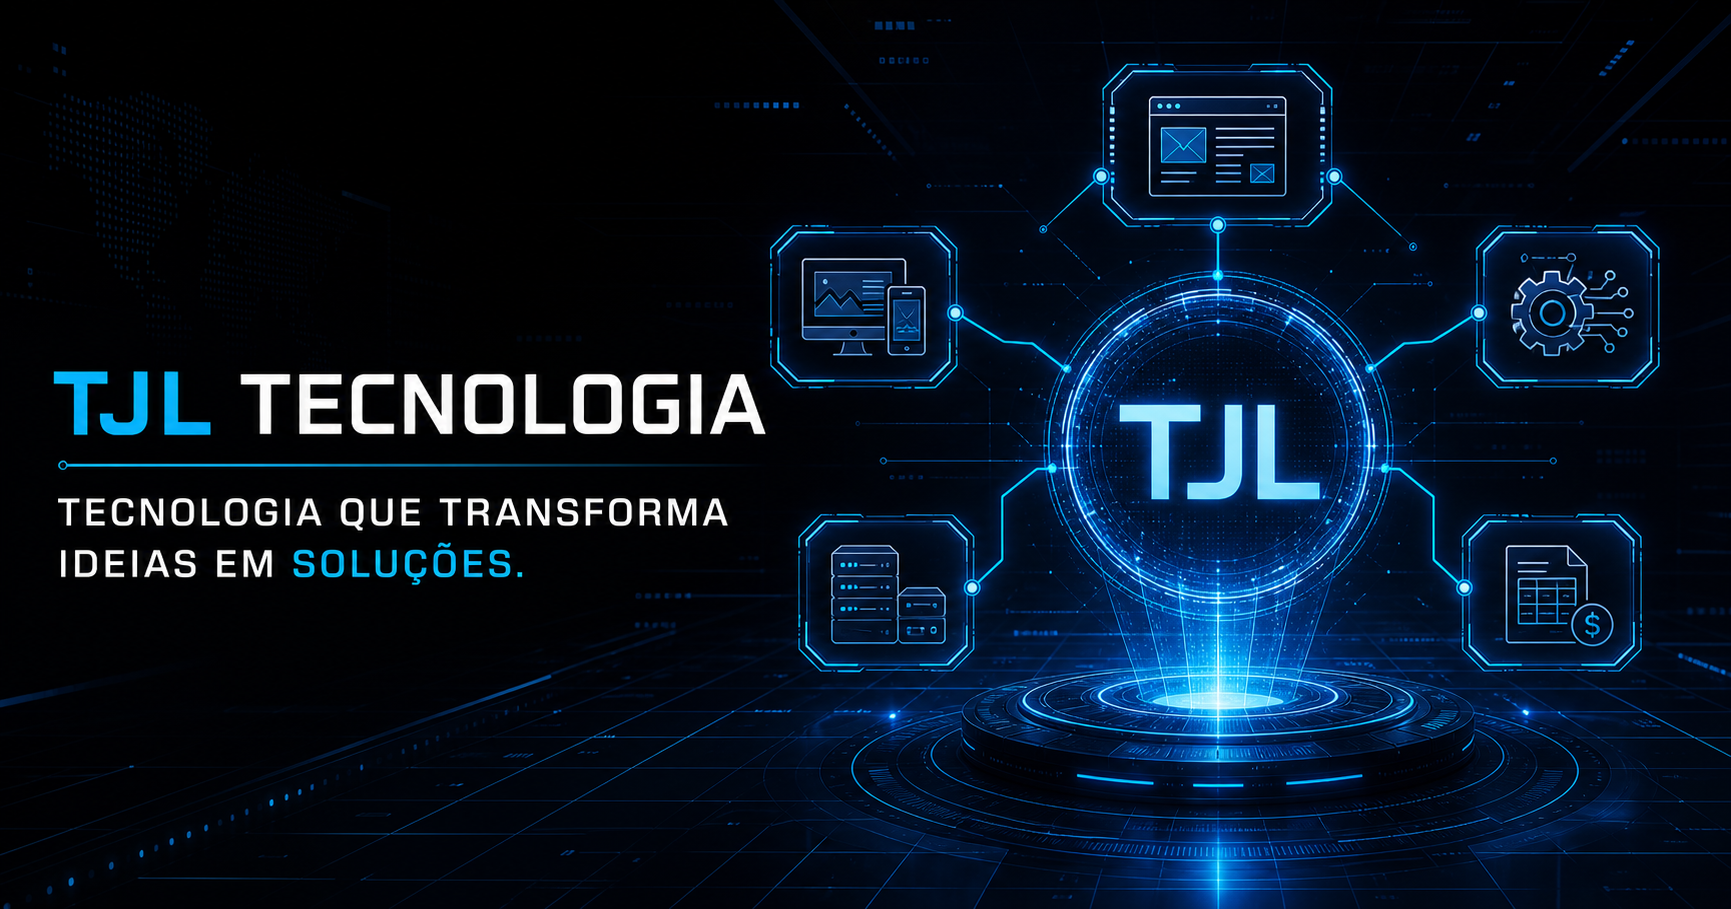
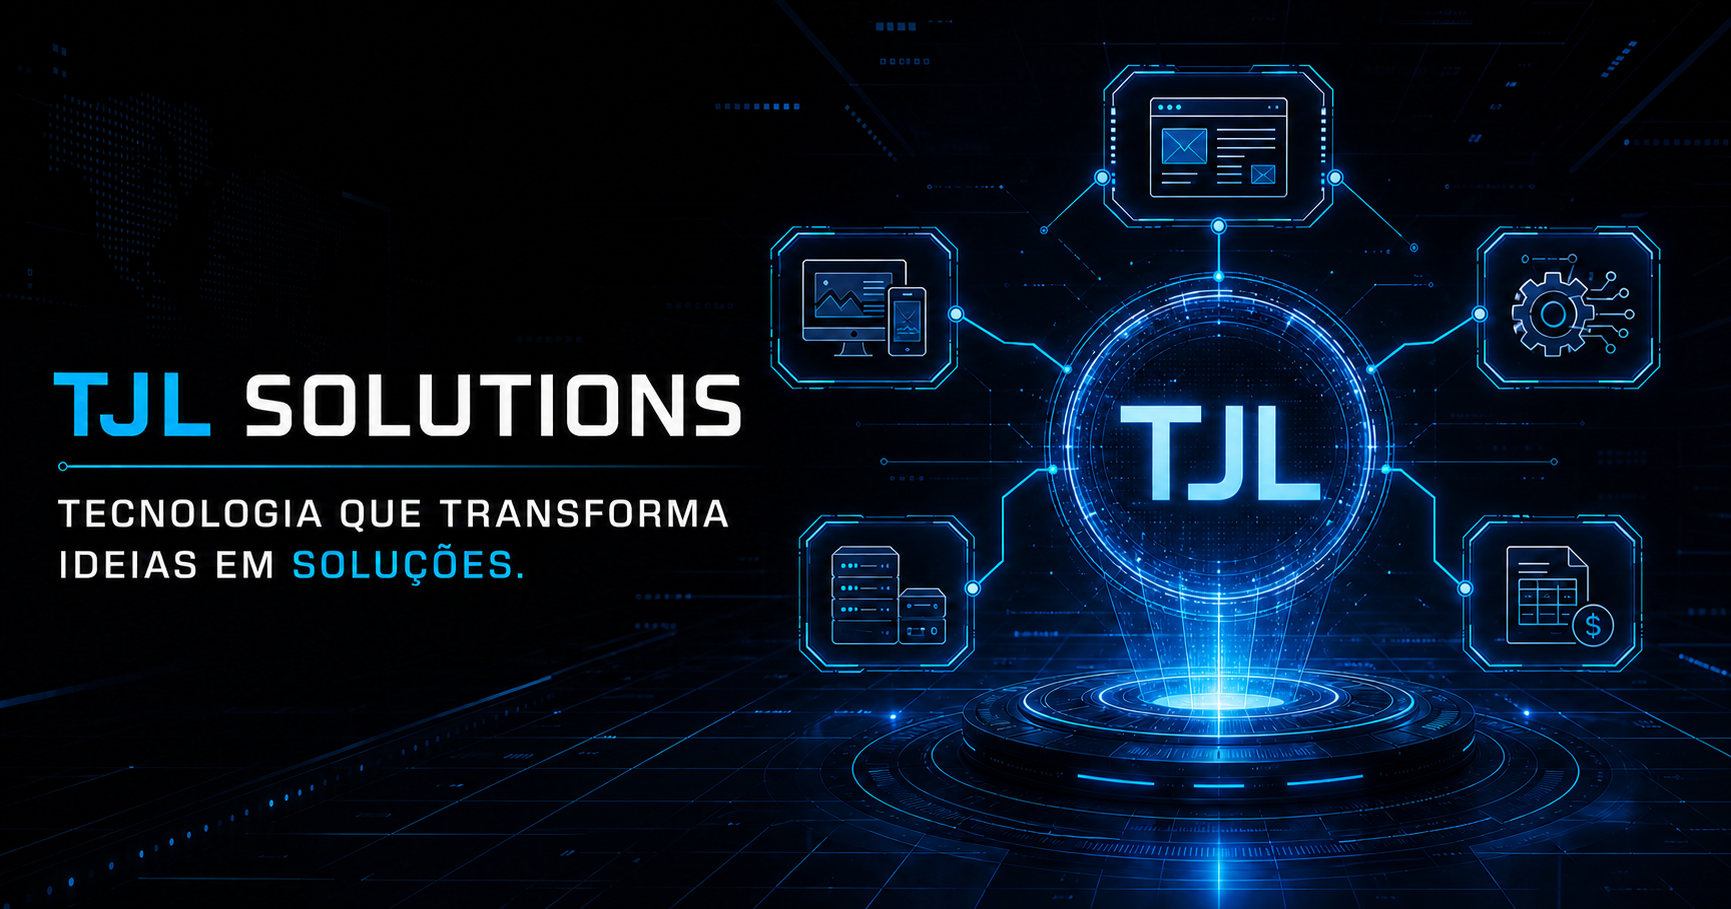
Rebrand site as TJL Solutions and fix hover contrast

diff --git a/src/index.css b/src/index.css
@@ -88,7 +88,7 @@ main, footer, .control-bar, .side-rail, .mobile-command { position: relative; z-
 .control-nav a:hover, .control-nav a.active { color: white; }
 .control-nav a.active::after { transform: scaleX(1); }
 .control-cta { display: flex; align-items: center; gap: 8px; padding: 13px 16px; background: var(--cyan); color: #021018; font: 600 11px var(--font-mono); text-transform: uppercase; letter-spacing: .06em; transition: .25s; }
-.control-cta:hover { background: white; box-shadow: 0 0 30px rgba(34,211,238,.3); }
+.control-cta:hover { background: #f5fbff; color: #021018; box-shadow: 0 0 30px rgba(34,211,238,.3); }
 .control-actions { display: flex; align-items: center; gap: 8px; }
 .theme-toggle { display: inline-flex; align-items: center; justify-content: center; gap: 7px; min-height: 40px; padding: 0 11px; border: 1px solid var(--line); background: rgba(8,20,32,.64); color: var(--white); cursor: pointer; font: 500 9px var(--font-mono); text-transform: uppercase; letter-spacing: .06em; transition: border-color .2s, background .2s, color .2s; }
 .theme-toggle:hover { border-color: var(--line-hot); background: rgba(34,211,238,.1); }
@@ -118,7 +118,7 @@ main, footer, .control-bar, .side-rail, .mobile-command { position: relative; z-
 .hero-actions { display: flex; gap: 12px; }
 .btn-signal, .btn-line { display: inline-flex; align-items: center; justify-content: center; gap: 14px; min-height: 50px; padding: 0 20px; text-transform: uppercase; letter-spacing: .08em; font: 600 11px var(--font-mono); transition: .3s var(--ease); }
 .btn-signal { background: var(--cyan); color: #021017; box-shadow: 0 0 0 rgba(34,211,238,0); }
-.btn-signal:hover { transform: translateY(-3px); background: white; box-shadow: 0 14px 35px rgba(34,211,238,.18); }
+.btn-signal:hover { transform: translateY(-3px); background: #f5fbff; color: #021017; box-shadow: 0 14px 35px rgba(34,211,238,.18); }
 .btn-line { border: 1px solid rgba(125,211,252,.26); background: rgba(6,14,24,.45); color: #c5e9fa; }
 .btn-line:hover { border-color: var(--cyan); background: rgba(34,211,238,.08); }
 .hero-metrics { display: flex; gap: 36px; margin-top: 44px; }
@@ -333,6 +333,7 @@ main, footer, .control-bar, .side-rail, .mobile-command { position: relative; z-
 .map-strip-content small { color: var(--cyan); font: 8px var(--font-mono); letter-spacing: .15em; }.map-strip-content h2 { margin: 9px 0; font: 600 1.75rem var(--font-display); }.map-strip-content p { margin: 0; color: #668397; font-size: .8rem; }
 .map-data { display: flex; flex-direction: column; gap: 7px; }.map-data span { display: flex; justify-content: space-between; gap: 20px; color: #456478; font: 7px var(--font-mono); }.map-data em { color: #90afbf; font-style: normal; }
 .map-strip-content > a { display: flex; align-items: center; gap: 9px; padding: 14px 18px; border: 1px solid var(--line-hot); font: 9px var(--font-mono); }
+.map-strip-content > a:hover { border-color: var(--cyan); background: rgba(34,211,238,.1); color: var(--white); }
 .embedded-map { position: relative; min-height: 430px; overflow: hidden; border: 1px solid var(--line-hot); background: #06101a; box-shadow: 0 28px 70px rgba(0,0,0,.24); }
 .embedded-map::before { content: "MAPA / TJL BASE 01"; position: absolute; z-index: 2; top: 12px; left: 12px; padding: 8px 10px; background: rgba(3,8,14,.84); color: #bdefff; pointer-events: none; font: 8px var(--font-mono); letter-spacing: .12em; }
 .embedded-map iframe { display: block; width: 100%; height: 430px; border: 0; }
@@ -342,6 +343,7 @@ main, footer, .control-bar, .side-rail, .mobile-command { position: relative; z-
 .map-placeholder span { max-width: 520px; color: #7190a2; font-size: .8rem; line-height: 1.6; }
 
 footer { background: #02060b !important; }
+.footer-nav-link:hover { color: #f5fbff; }
 .card-tech { border: 1px solid var(--line) !important; background: rgba(5,13,22,.7) !important; }
 .btn-primary { display: inline-flex; align-items: center; gap: 8px; border: 0; background: var(--cyan); color: #031017; padding: 12px 16px; font: 600 10px var(--font-mono); }
 .btn-outline { display: inline-flex; border: 1px solid var(--line-hot); background: transparent; color: white; padding: 12px 16px; }
@@ -464,5 +466,11 @@ footer { background: #02060b !important; }
 [data-theme="light"] .request-field select option { background: white; }
 [data-theme="light"] .location-terminal { background: rgba(255,255,255,.78); }
 [data-theme="light"] footer { background: #dce9ee !important; color: #102d3b; }
+[data-theme="light"] footer .text-slate-400,
+[data-theme="light"] footer .text-slate-300 { color: #496675; }
+[data-theme="light"] footer .text-slate-500,
+[data-theme="light"] footer .text-slate-600 { color: #5f7784; }
+[data-theme="light"] .footer-nav-link:hover { color: #006f95; }
+[data-theme="light"] .map-strip-content > a:hover { color: #063147; }
 [data-theme="light"] .mobile-command { background: rgba(241,248,250,.98); }
 [data-theme="light"] ::selection { color: #fff; }

diff --git a/src/components/Footer.tsx b/src/components/Footer.tsx
@@ -7,14 +7,14 @@ export default function Footer() {
       <div className="content-shell">
         <div className="grid gap-12 md:grid-cols-[1.2fr_.8fr_1fr] pb-12">
           <div>
-            <div className="control-logo mb-5"><span className="control-logo-mark">T</span><span>TJL <b>TECNOLOGIA</b></span></div>
+            <div className="control-logo mb-5"><span className="control-logo-mark">T</span><span>TJL <b>SOLUTIONS</b></span></div>
             <p className="max-w-sm text-sm leading-7 text-slate-400">Tecnologia, inovação e soluções personalizadas para movimentar o seu negócio.</p>
             <p className="mt-5 flex items-center gap-2 text-xs text-slate-500"><MapPin size={14} className="text-cyan-400"/> Rua XV de Novembro, 283 — Bilac, SP</p>
           </div>
           <div>
             <p className="terminal-label mb-5">MAPA DO SISTEMA</p>
             <div className="grid gap-3">
-              {navLinks.map((link) => <a key={link.href} href={link.href} className="group flex items-center gap-2 text-sm text-slate-400 transition hover:text-white"><span className="font-mono text-[8px] text-cyan-500">{link.short}</span>{link.label}<ArrowUpRight size={12} className="opacity-0 transition group-hover:opacity-100"/></a>)}
+              {navLinks.map((link) => <a key={link.href} href={link.href} className="footer-nav-link group flex items-center gap-2 text-sm text-slate-400 transition"><span className="font-mono text-[8px] text-cyan-500">{link.short}</span>{link.label}<ArrowUpRight size={12} className="opacity-0 transition group-hover:opacity-100"/></a>)}
             </div>
           </div>
           <div>
@@ -25,7 +25,7 @@ export default function Footer() {
           </div>
         </div>
         <div className="flex flex-col justify-between gap-3 border-t border-sky-300/10 pt-7 text-[10px] tracking-widest text-slate-600 sm:flex-row">
-          <p>© {new Date().getFullYear()} TJL TECNOLOGIA · TODOS OS DIREITOS RESERVADOS</p>
+          <p>© {new Date().getFullYear()} TJL SOLUTIONS · TODOS OS DIREITOS RESERVADOS</p>
           <p>SISTEMA DESENVOLVIDO PELA TJL</p>
         </div>
       </div>

diff --git a/src/App.tsx b/src/App.tsx
@@ -15,17 +15,17 @@ import AmbientExperience from "./components/AmbientExperience"
 
 export default function App() {
   useEffect(() => {
-    document.documentElement.dataset.siteRelease = '6'
-    document.title = 'TJL Tecnologia | Sites, Sistemas, Automações e Manutenção em Bilac'
+    document.documentElement.dataset.siteRelease = '7'
+    document.title = 'TJL Solutions | Sites, Sistemas, Automações e Manutenção em Bilac'
     const setMeta = (name: string, content: string, prop = false) => {
       const attr = prop ? 'property' : 'name'
       let el = document.querySelector(`meta[${attr}="${name}"]`) as HTMLMetaElement
       if (!el) { el = document.createElement('meta'); el.setAttribute(attr, name); document.head.appendChild(el) }
       el.content = content
     }
-    setMeta('description', 'A TJL Tecnologia desenvolve sites, sistemas e automações, além de oferecer manutenção de computadores em Bilac, São Paulo. Conheça o TJL Charge.')
+    setMeta('description', 'A TJL Solutions desenvolve sites, sistemas e automações, além de oferecer manutenção de computadores em Bilac, São Paulo. Conheça o TJL Charge.')
     setMeta('keywords', 'empresa de tecnologia Bilac, desenvolvimento de sites Bilac, manutenção computadores Bilac, TJL Charge, automação empresas')
-    setMeta('og:title', 'TJL Tecnologia | Sites, Sistemas, Automações e Manutenção em Bilac', true)
+    setMeta('og:title', 'TJL Solutions | Sites, Sistemas, Automações e Manutenção em Bilac', true)
     setMeta('og:description', 'Soluções digitais completas para empresas em Bilac, SP.', true)
     setMeta('og:type', 'website', true)
   }, [])

diff --git a/src/components/Contato.tsx b/src/components/Contato.tsx
@@ -37,7 +37,7 @@ export default function Contato() {
     if (!fields.mensagem.trim()) next.mensagem = "Mensagem é obrigatória."
     setErrors(next)
     if (Object.keys(next).length) return
-    const message = `Olá! Tenho interesse nos serviços da TJL Tecnologia.\n\nNome: ${fields.nome}${fields.empresa ? `\nEmpresa: ${fields.empresa}` : ""}\nTelefone: ${fields.telefone}\nServiço de interesse: ${fields.servico}\n\n${fields.mensagem}`
+    const message = `Olá! Tenho interesse nos serviços da TJL Solutions.\n\nNome: ${fields.nome}${fields.empresa ? `\nEmpresa: ${fields.empresa}` : ""}\nTelefone: ${fields.telefone}\nServiço de interesse: ${fields.servico}\n\n${fields.mensagem}`
     window.open(`https://wa.me/${team[selected].phone}?text=${encodeURIComponent(message)}`, "_blank", "noopener,noreferrer")
     setSent(true)
   }

diff --git a/src/components/Navbar.tsx b/src/components/Navbar.tsx
@@ -34,9 +34,9 @@ export default function Navbar() {
   return (
     <>
       <header className={`control-bar ${scrolled ? "is-compact" : ""}`}>
-        <a href="#inicio" className="control-logo" aria-label="TJL Tecnologia — início">
+        <a href="#inicio" className="control-logo" aria-label="TJL Solutions — início">
           <span className="control-logo-mark">T</span>
-          <span>TJL <b>TECNOLOGIA</b></span>
+          <span>TJL <b>SOLUTIONS</b></span>
         </a>
 
         <nav className="control-nav" aria-label="Navegação principal">

diff --git a/src/components/Hero.tsx b/src/components/Hero.tsx
@@ -27,7 +27,7 @@ export default function Hero() {
       <div className="hero-layout">
         <div className="hero-copy">
           <div className="hero-kicker"><i /> Ecossistema digital · Bilac, SP</div>
-          <p className="hero-brand">TJL Tecnologia</p>
+          <p className="hero-brand">TJL Solutions</p>
           <h1>Tecnologia que <span>transforma ideias</span> em soluções.</h1>
           <p className="hero-description">
             Desenvolvemos sites, sistemas e automações, além de cuidar da manutenção de computadores,

diff --git a/src/components/WhatsAppFloat.tsx b/src/components/WhatsAppFloat.tsx
@@ -8,7 +8,7 @@ export default function WhatsAppFloat() {
       href={`https://wa.me/5518996460473?text=${msg}`}
       target="_blank"
       rel="noopener noreferrer"
-      aria-label="Falar com TJL Tecnologia pelo WhatsApp"
+      aria-label="Falar com TJL Solutions pelo WhatsApp"
       className="fixed bottom-6 right-6 z-50 flex items-center justify-center w-14 h-14 rounded-full shadow-2xl border border-white/20"
       style={{
         background: '#16a34a',

diff --git a/src/components/Localizacao.tsx b/src/components/Localizacao.tsx
@@ -38,7 +38,7 @@ export default function Localizacao() {
         <div className="embedded-map" ref={mapRef}>
           {loadMap ? (
             <iframe
-              title="Mapa da TJL Tecnologia em Bilac"
+              title="Mapa da TJL Solutions em Bilac"
               src={mapEmbedUrl}
               loading="lazy"
               allowFullScreen
